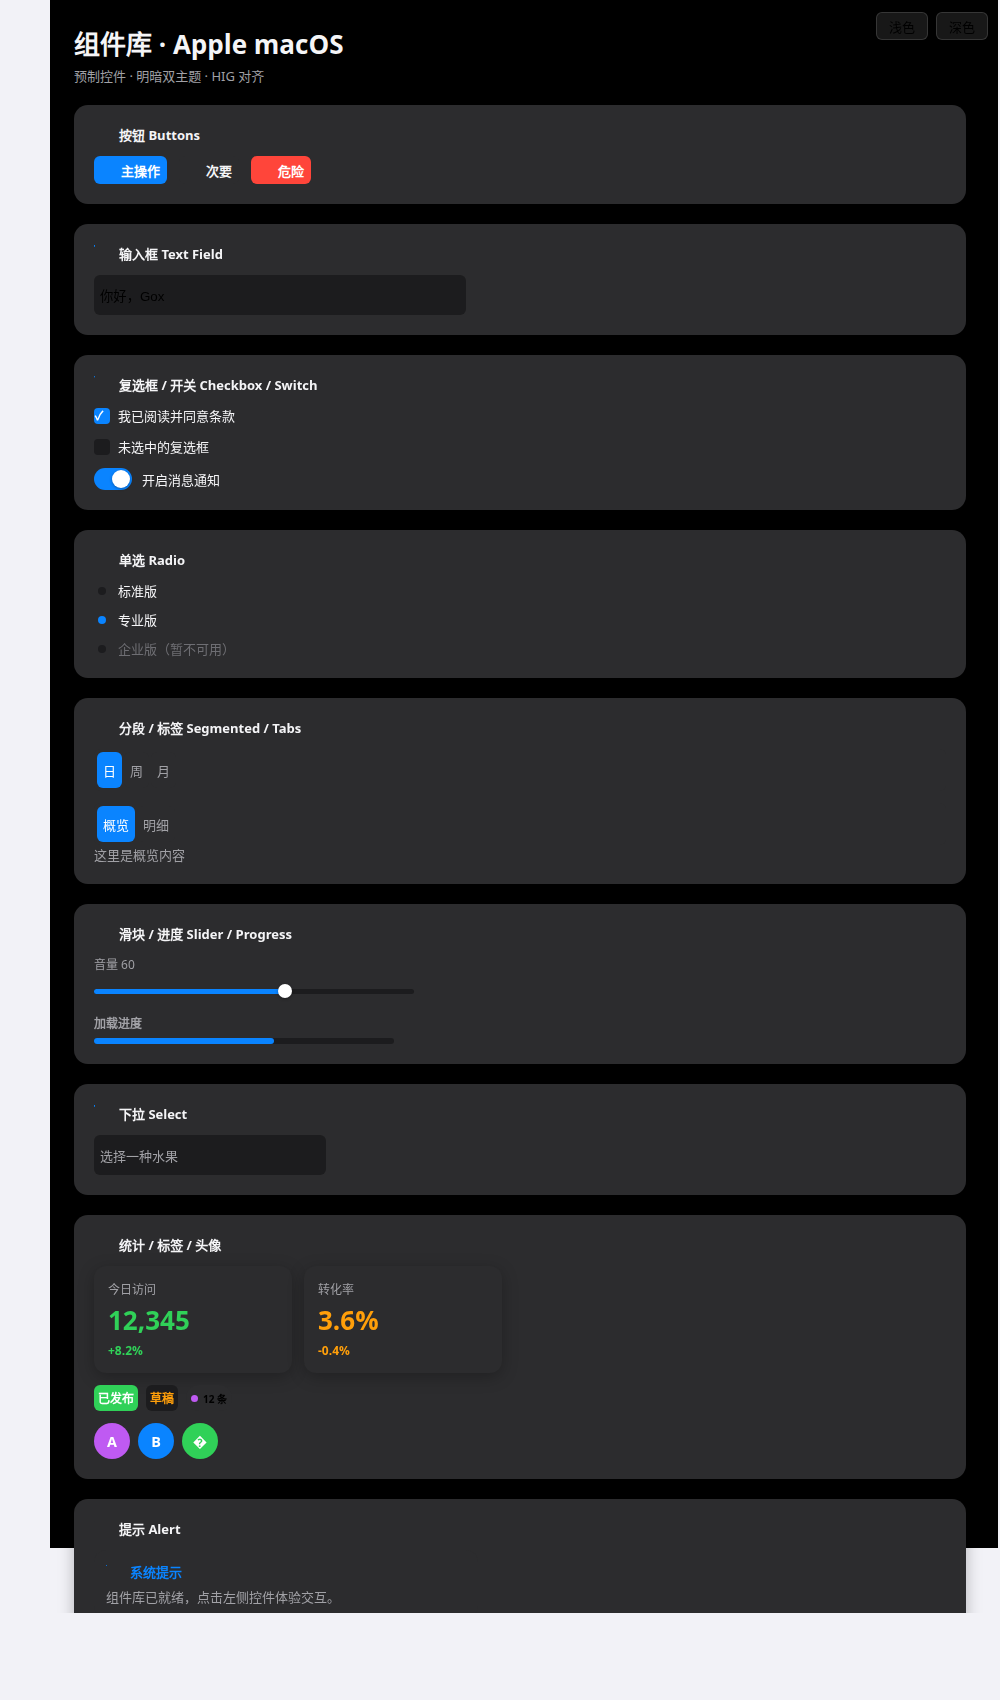
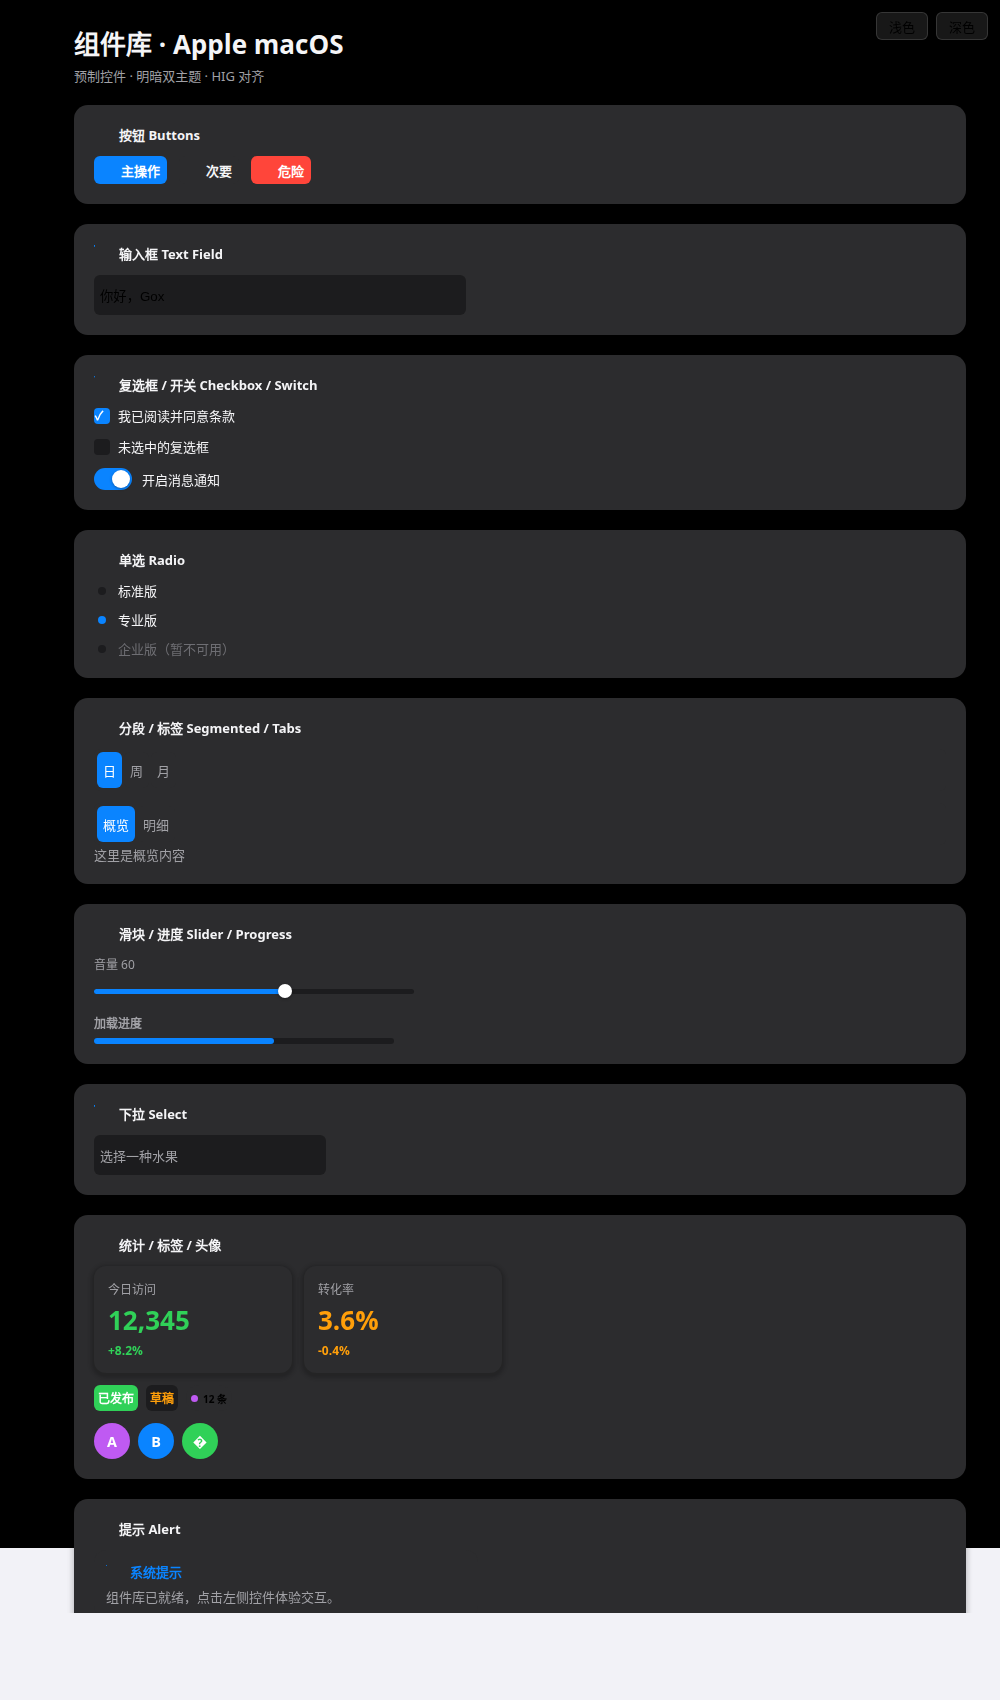
feat(shadow): 阴影三端像素对齐 + 严格 Apple HIG 重定
- 根因：Skia/Rust 用 6 层矩形近似高斯，Web 用浏览器原生高斯，算法不同
  导致同一 token 三端阴影不一致，且旧 token (modal #00000099≈0.6) 过重不符 HIG
- Web: expandBoxShadow 把单层 token 展开成 6 层 CSS box-shadow，逐层复刻
  Skia paintShadow / Rust paint_shadow_tiny 的 expand 与 alpha 公式（i=1..6），
  输出顺序对齐 CSS 首个阴影在最上层；多层/非法串原样透传避免二次展开
- token 按 Apple HIG 重定：低 alpha、大 blur、近零 offset，深色约 2× 浅色；
  按叠加中心 alpha≈token×0.71 校准，三端共用
- TestExpandBoxShadowMatchesSkia 逐层比对 expand/alpha，防三端公式漂移
- Web showcase: 主题切换同步 body[data-theme] 底色，消除深色模式右侧白边
- docs/APPLE_DESIGN.md 记录三端阴影对齐算法；更新明暗实机截图

Changed region(s): [[0.0, 0.0, 0.062, 0.9353], [0.992, 0.0, 1.0, 0.9041]]

diff --git a/backend/web/stylemap.go b/backend/web/stylemap.go
@@ -1,6 +1,7 @@
 package gxweb
 
 import (
+	"fmt"
 	"strconv"
 	"strings"
 
@@ -65,11 +66,138 @@ func isFlexLayoutKey(key string) bool {
 	return false
 }
 
+// expandBoxShadow 把单层 GX box-shadow token 展开成复刻 Skia/Rust 6 层矩形
+// 近似的 CSS 多层阴影，使 Web 端与桌面/Rust 端的阴影视觉一致。
+//
+// Skia paintShadow（Rust paint_shadow_tiny 同算法）：
+//
+//	baseA = 颜色 alpha（<=0 时取 90）
+//	for i = 6..1:
+//	    t      = i / 6
+//	    expand = spread + blur * t
+//	    a      = baseA * (1 - t) / 6 * 1.8   （clamp 0..255）
+//	    画圆角矩形：四周扩 expand，alpha=a，radius=原 radius+expand
+//
+// CSS box-shadow 的 spread 会同步把圆角半径增大 spread，故每层用
+// "ox oy 0px expand rgba(r,g,b,a/255)" 精确对应 Skia 的一层实心圆角矩形。
+// 输出顺序 i=1..6：CSS 第一个阴影绘制在最上层，对应 Skia 最后画的、最浓的内层。
+//
+// 已是多层（含逗号）或解析失败时原样透传，避免二次展开。
+func expandBoxShadow(v string) string {
+	ox, oy, blur, spread, r, g, b, baseA, ok := parseShadowToken(v)
+	if !ok {
+		return v
+	}
+	if baseA <= 0 {
+		baseA = 90
+	}
+	const layers = 6
+	parts := make([]string, 0, layers)
+	for i := 1; i <= layers; i++ {
+		t := float64(i) / layers
+		expand := spread + blur*t
+		a := float64(baseA) * (1 - t) / layers * 1.8
+		if a < 0 {
+			a = 0
+		} else if a > 255 {
+			a = 255
+		}
+		parts = append(parts, fmt.Sprintf("%gpx %gpx 0px %gpx rgba(%d,%d,%d,%.4f)",
+			ox, oy, expand, r, g, b, a/255))
+	}
+	return strings.Join(parts, ", ")
+}
+
+// parseShadowToken 解析 "ox oy [blur] [spread] [color]"。color 缺省为半透明黑，
+// 与 Skia parseBoxShadow 的默认（alpha=90）一致。
+func parseShadowToken(v string) (ox, oy, blur, spread float64, r, g, b, a int, ok bool) {
+	v = strings.TrimSpace(v)
+	if v == "" || strings.Contains(v, ",") {
+		return // 已多层或空：不展开
+	}
+	fields := strings.Fields(v)
+	if len(fields) < 2 {
+		return
+	}
+	nums := make([]float64, 0, 4)
+	colorStr := ""
+	for _, f := range fields {
+		n, err := strconv.ParseFloat(strings.TrimSuffix(strings.TrimSuffix(f, "px"), "PX"), 64)
+		if err == nil && len(nums) < 4 {
+			nums = append(nums, n)
+			continue
+		}
+		colorStr = f
+	}
+	if len(nums) < 2 {
+		return
+	}
+	ox, oy = nums[0], nums[1]
+	if len(nums) >= 3 {
+		blur = nums[2]
+	}
+	if len(nums) >= 4 {
+		spread = nums[3]
+	}
+	a = 90 // Skia 默认半透明黑
+	if colorStr != "" {
+		r, g, b, a = parseShadowColor(colorStr)
+	}
+	ok = true
+	return
+}
+
+// parseShadowColor 解析阴影颜色：#rgb / #rrggbb / #rrggbbaa / rgb() / rgba()。
+// 无法识别时返回黑色 + alpha=90（与 Skia 兜底一致）。
+func parseShadowColor(s string) (r, g, b, a int) {
+	s = strings.ToLower(strings.TrimSpace(s))
+	a = 90
+	if strings.HasPrefix(s, "#") {
+		h := s[1:]
+		switch len(h) {
+		case 3:
+			r, g, b = hexByte(h[0:1])*17, hexByte(h[1:2])*17, hexByte(h[2:3])*17
+			a = 255
+		case 6:
+			r, g, b = hexByte(h[0:2]), hexByte(h[2:4]), hexByte(h[4:6])
+			a = 255
+		case 8:
+			r, g, b, a = hexByte(h[0:2]), hexByte(h[2:4]), hexByte(h[4:6]), hexByte(h[6:8])
+		}
+		return
+	}
+	if strings.HasPrefix(s, "rgba(") || strings.HasPrefix(s, "rgb(") {
+		inner := s[strings.Index(s, "(")+1 : strings.LastIndex(s, ")")]
+		parts := strings.Split(inner, ",")
+		if len(parts) >= 3 {
+			r, _ = strconv.Atoi(strings.TrimSpace(parts[0]))
+			g, _ = strconv.Atoi(strings.TrimSpace(parts[1]))
+			b, _ = strconv.Atoi(strings.TrimSpace(parts[2]))
+			a = 255
+			if len(parts) >= 4 {
+				af, err := strconv.ParseFloat(strings.TrimSpace(parts[3]), 64)
+				if err == nil {
+					a = int(af * 255)
+				}
+			}
+		}
+	}
+	return
+}
+
+func hexByte(s string) int {
+	v, _ := strconv.ParseUint(s, 16, 8)
+	return int(v)
+}
+
 // cssValue 把样式值规整为 CSS 值：纯数字的长度属性补 px；盒模型简写属性支持
-// 1~4 值逐边补单位；颜色/关键字原样。
+// 1~4 值逐边补单位；box-shadow 展开为 6 层以对齐 Skia/Rust；颜色/关键字原样。
 func cssValue(key, v string) string {
 	if v == "" {
 		return v
+	}
+	if key == "box-shadow" {
+		return expandBoxShadow(v)
 	}
 	if boxShorthandProps[key] {
 		if edges, ok := cssbox.Values(v); ok {

diff --git a/backend/web/stylemap_test.go b/backend/web/stylemap_test.go
@@ -1,6 +1,10 @@
 package gxweb
 
-import "testing"
+import (
+	"strconv"
+	"strings"
+	"testing"
+)
 
 func TestCSSValueBoxShorthand(t *testing.T) {
 	tests := []struct {
@@ -24,4 +28,75 @@ func TestCSSValueBoxShorthand(t *testing.T) {
 			t.Errorf("cssValue(%q, %q) = %q, want %q", tc.key, tc.in, got, tc.want)
 		}
 	}
+}
+
+// TestExpandBoxShadowMatchesSkia 验证 Web 端 6 层展开与 Skia/Rust 端
+// paintShadow 算法逐层一致：同一 token 两端算出相同的 expand 与 alpha 序列。
+func TestExpandBoxShadowMatchesSkia(t *testing.T) {
+	// "0 4px 16px 0 #00000040"：ox=0 oy=4 blur=16 spread=0 baseA=0x40=64
+	got := expandBoxShadow("0 4px 16px 0 #00000040")
+	layers := strings.Split(got, ", ")
+	if len(layers) != 6 {
+		t.Fatalf("应展开 6 层，got %d: %q", len(layers), got)
+	}
+
+	// 复刻 Skia paintShadow 公式，逐层比对。
+	const baseA = 64.0
+	const blur = 16.0
+	const spread = 0.0
+	for i := 1; i <= 6; i++ {
+		tt := float64(i) / 6
+		wantExpand := spread + blur*tt
+		wantA := baseA * (1 - tt) / 6 * 1.8
+		if wantA < 0 {
+			wantA = 0
+		} else if wantA > 255 {
+			wantA = 255
+		}
+
+		// 期望形如 "0px 4px 0px 2.6667px rgba(0,0,0,0.0627)"
+		// 只需确认该层包含正确的 expand（第 4 段）与 alpha（rgba 末段）。
+		fields := strings.Fields(layers[i-1])
+		if len(fields) < 5 {
+			t.Fatalf("第 %d 层字段不足: %q", i, layers[i-1])
+		}
+		gotExpand := strings.TrimSuffix(fields[3], "px")
+		if !approx(gotExpand, wantExpand) {
+			t.Errorf("第 %d 层 expand: got %s, want %g", i, gotExpand, wantExpand)
+		}
+		wantAlpha := wantA / 255
+		// fields[4] 形如 "rgba(0,0,0,0.0627)"，取最后一个逗号后的数字。
+		rgbaParts := strings.Split(fields[4], ",")
+		if len(rgbaParts) < 4 {
+			t.Fatalf("第 %d 层 rgba 字段异常: %q", i, fields[4])
+		}
+		gotAlphaStr := strings.TrimSuffix(rgbaParts[3], ")")
+		if !approx(gotAlphaStr, wantAlpha) {
+			t.Errorf("第 %d 层 alpha: got %s, want %.4f", i, gotAlphaStr, wantAlpha)
+		}
+	}
+}
+
+// TestExpandBoxShadowPassthrough 多层串与非法串原样透传，避免二次展开。
+func TestExpandBoxShadowPassthrough(t *testing.T) {
+	multi := "0 1px 2px rgba(0,0,0,0.06), 0 4px 16px rgba(0,0,0,0.1)"
+	if got := cssValue("box-shadow", multi); got != multi {
+		t.Errorf("多层阴影应原样透传: got %q", got)
+	}
+	if got := cssValue("box-shadow", "garbage"); got != "garbage" {
+		t.Errorf("非法阴影应原样透传: got %q", got)
+	}
+}
+
+// approx 解析浮点字符串并比较（容差 1e-3）。
+func approx(s string, want float64) bool {
+	got, err := strconv.ParseFloat(s, 64)
+	if err != nil {
+		return false
+	}
+	d := got - want
+	if d < 0 {
+		d = -d
+	}
+	return d <= 1e-3
 }

diff --git a/examples/web-widget-showcase/main.go b/examples/web-widget-showcase/main.go
@@ -26,10 +26,16 @@ func main() {
 			}
 		}
 	}
+	applyTheme := func(t widgets.Theme, name string) {
+		widgets.SetTheme(t)
+		// 同步页面底色：canvas 固定 900pt 宽，视口更宽处露出 body 背景，
+		// 需与主题一致，否则深色模式右侧露出浅灰，破坏与桌面端的对齐观感。
+		js.Global().Get("document").Get("body").Call("setAttribute", "data-theme", name)
+	}
 	if theme == "light" {
-		widgets.SetTheme(widgets.LightTheme)
+		applyTheme(widgets.LightTheme, "light")
 	} else {
-		widgets.SetTheme(widgets.DarkTheme)
+		applyTheme(widgets.DarkTheme, "dark")
 	}
 
 	win := gxweb.MustOpen("#app")
@@ -66,7 +72,12 @@ func registerThemeToggle(app *gxapp.App) {
 			"height:28px;padding:0 12px;border-radius:6px;border:1px solid #ffffff22;background:#ffffff18;color:inherit;cursor:pointer;font:13px -apple-system,system-ui,sans-serif;")
 		b.Set("textContent", text)
 		b.Call("addEventListener", "click", js.FuncOf(func(this js.Value, args []js.Value) any {
+			name := "dark"
+			if t.Name == "light" {
+				name = "light"
+			}
 			widgets.SetTheme(t)
+			js.Global().Get("document").Get("body").Call("setAttribute", "data-theme", name)
 			_ = app.Render(func() any { return showcase.Build(showcase.DefaultWidth, 1500) })
 			_ = app.Draw()
 			return nil

diff --git a/widgets/apple_theme.go b/widgets/apple_theme.go
@@ -121,12 +121,15 @@ const (
 	FontFootnote    = "10"
 )
 
-// ---- 柔和多层阴影（Apple 阴影：大扩散、低 alpha、向下偏移）----
+// ---- 柔和多层阴影（Apple HIG：低 alpha、大 blur、近零 offset）----
+// Apple 阴影是「极低不透明度的多层柔和叠加」，深色背景上需约 2× 才可见。
+// 后端用 6 层矩形近似模拟高斯，叠加后中心 alpha ≈ token alpha × 0.71，
+// 故 token 取值略高于目标视觉值。三端共用同一套 token + 同一套 6 层算法。
 // 用 var 而不是 const：SetTheme 会按明暗主题同步成对应强度（浅色更轻）。
 var (
-	ShadowCard  = "0 4px 16px 0 #00000040"
-	ShadowFloat = "0 10px 30px 0 #00000066"
-	ShadowModal = "0 24px 64px 0 #00000099"
+	ShadowCard  = "0 2px 8px 0 #00000033"
+	ShadowFloat = "0 8px 24px 0 #0000004d"
+	ShadowModal = "0 20px 56px 0 #00000066"
 )
 
 // ---- 8pt 间距标度 ----

diff --git a/widgets/theme.go b/widgets/theme.go
@@ -146,8 +146,9 @@ var LightTheme = Theme{
 	FontLargeTitle: FontLargeTitle, FontTitle1: FontTitle1, FontTitle2: FontTitle2,
 	FontTitle3: FontTitle3, FontHeadline: FontHeadline, FontBody: FontBody,
 	FontCallout: FontCallout, FontSubheadline: FontSubheadline, FontFootnote: FontFootnote,
-	ShadowCard: "0 2px 8px 0 #0000001a", ShadowFloat: "0 8px 24px 0 #00000026",
-	ShadowModal: "0 20px 56px 0 #00000033",
+	// Apple HIG 阴影（本轮重定）：低 alpha、大 blur、近零 offset；配合 6 层算法三端一致。
+	ShadowCard: "0 1px 4px 0 #0000001a", ShadowFloat: "0 6px 18px 0 #00000026",
+	ShadowModal: "0 16px 44px 0 #0000003d",
 	Space1:      Space1, Space2: Space2, Space3: Space3, Space4: Space4,
 	Space5: Space5, Space6: Space6, Space8: Space8,
 }

diff --git a/docs/APPLE_DESIGN.md b/docs/APPLE_DESIGN.md
@@ -62,6 +62,16 @@ inst := widgets.Button(gxscene.Props{ /* ... */ })
 - 旧版 `Theme*`（`ThemeBg` / `ThemePanel` / `ThemeAccent` …）保留同名导出符号，但已从常量改为变量；`SetTheme` 会把它们同步为当前主题令牌。这样既有业务代码与测试仍可直接比较符号，浅色主题下也不会残留深色控件。
 - `ShadowCard` / `ShadowFloat` / `ShadowModal` 同样随主题同步，浅色主题使用更轻的阴影。
 
+### 阴影：三端像素对齐
+
+Apple HIG 的阴影是**极低不透明度的多层柔和叠加**（大 blur、近零 offset），深色背景上需约 2× alpha 才可见。三端共用同一套 token 与同一套 **6 层矩形近似高斯算法**，因此同一 token 在三端视觉一致：
+
+- **Skia（桌面）** `backend/skia/paint.go:paintShadow`：for i=6..1，`expand = spread + blur·(i/6)`，`a = baseA·(1−i/6)/6·1.8`，画圆角矩形。
+- **Rust（原生）** `backend/rust/rust/src/render.rs:paint_shadow_tiny`：逐行同算法。
+- **Web（浏览器）** `backend/web/stylemap.go:expandBoxShadow`：不再用浏览器原生高斯，而是把单层 token 展开成 6 层 CSS `box-shadow`（`ox oy 0px expand rgba(...,a/255)`），逐层复刻上面两端公式，输出顺序 i=1..6 对应 CSS 首个阴影在最上层。
+
+token 灰度按叠加大致 `中心 alpha ≈ token alpha × 0.71` 校准，故取值略高于目标视觉值。测试 `TestExpandBoxShadowMatchesSkia` 逐层比对 expand 与 alpha，保证三端公式不漂移。
+
 ## 3. 浮层三件套
 
 浮层角色由 `gx-role` 标记，脱离 flex 流、最后绘制、浮层优先命中。见 `docs/STYLE.md`。
